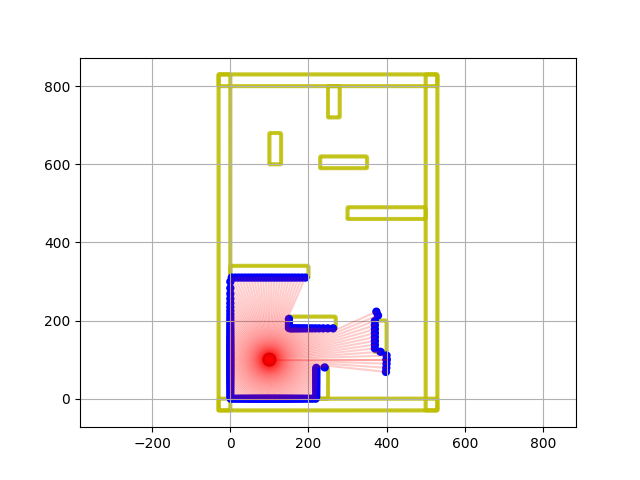
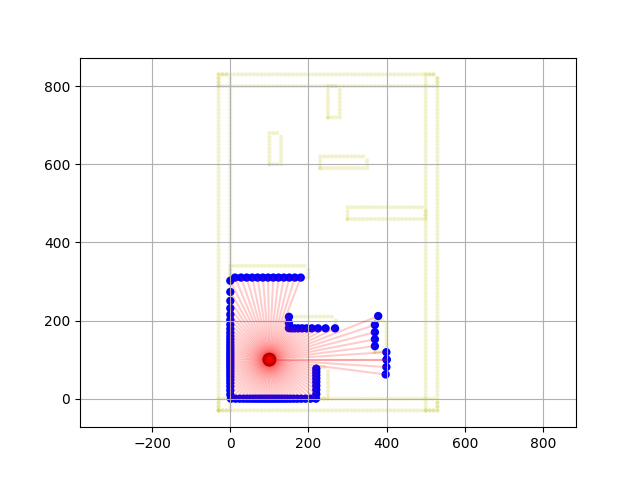
m

Changed region(s): [[0.3125, 0.125, 0.6875, 0.875], [0.5, 0.3125, 0.5938, 0.375], [0.4062, 0.25, 0.4688, 0.3438]]

diff --git a/simulator.py b/simulator.py
@@ -98,7 +98,7 @@ class Obstacle():
         return self.__get_points(centroid=[self.centroid[0] + disp_x, self.centroid[1] + disp_y])
 
 
-def connect_segments(segments, resolution = 1):
+def connect_segments(segments, resolution = 10):
     """
     :param segments: start and end points of all segments as ((x1,y1,x1',y1'), (x2,y2,x2',y2'), (x3,y3,x3',y3'), (...))
            step_size : resolution for plotting
@@ -243,7 +243,7 @@ def update_text_file(text_file, data, file_format='carmen'):
 
 def main():
     #set up the robot
-    n_reflections = 180
+    n_reflections = 100
     realm_in_radians = np.pi*2
     max_laser_distance = 300
     robot_pos = np.array([100, 100])
@@ -279,7 +279,7 @@ def main():
 
     output_file_name = 'simulator_out.txt'
     text_file = open(output_file_name, 'w')
-    for t in range(25):
+    for t in range(1):
         print('time = {}...'.format(t))
 
         #update obstacles
